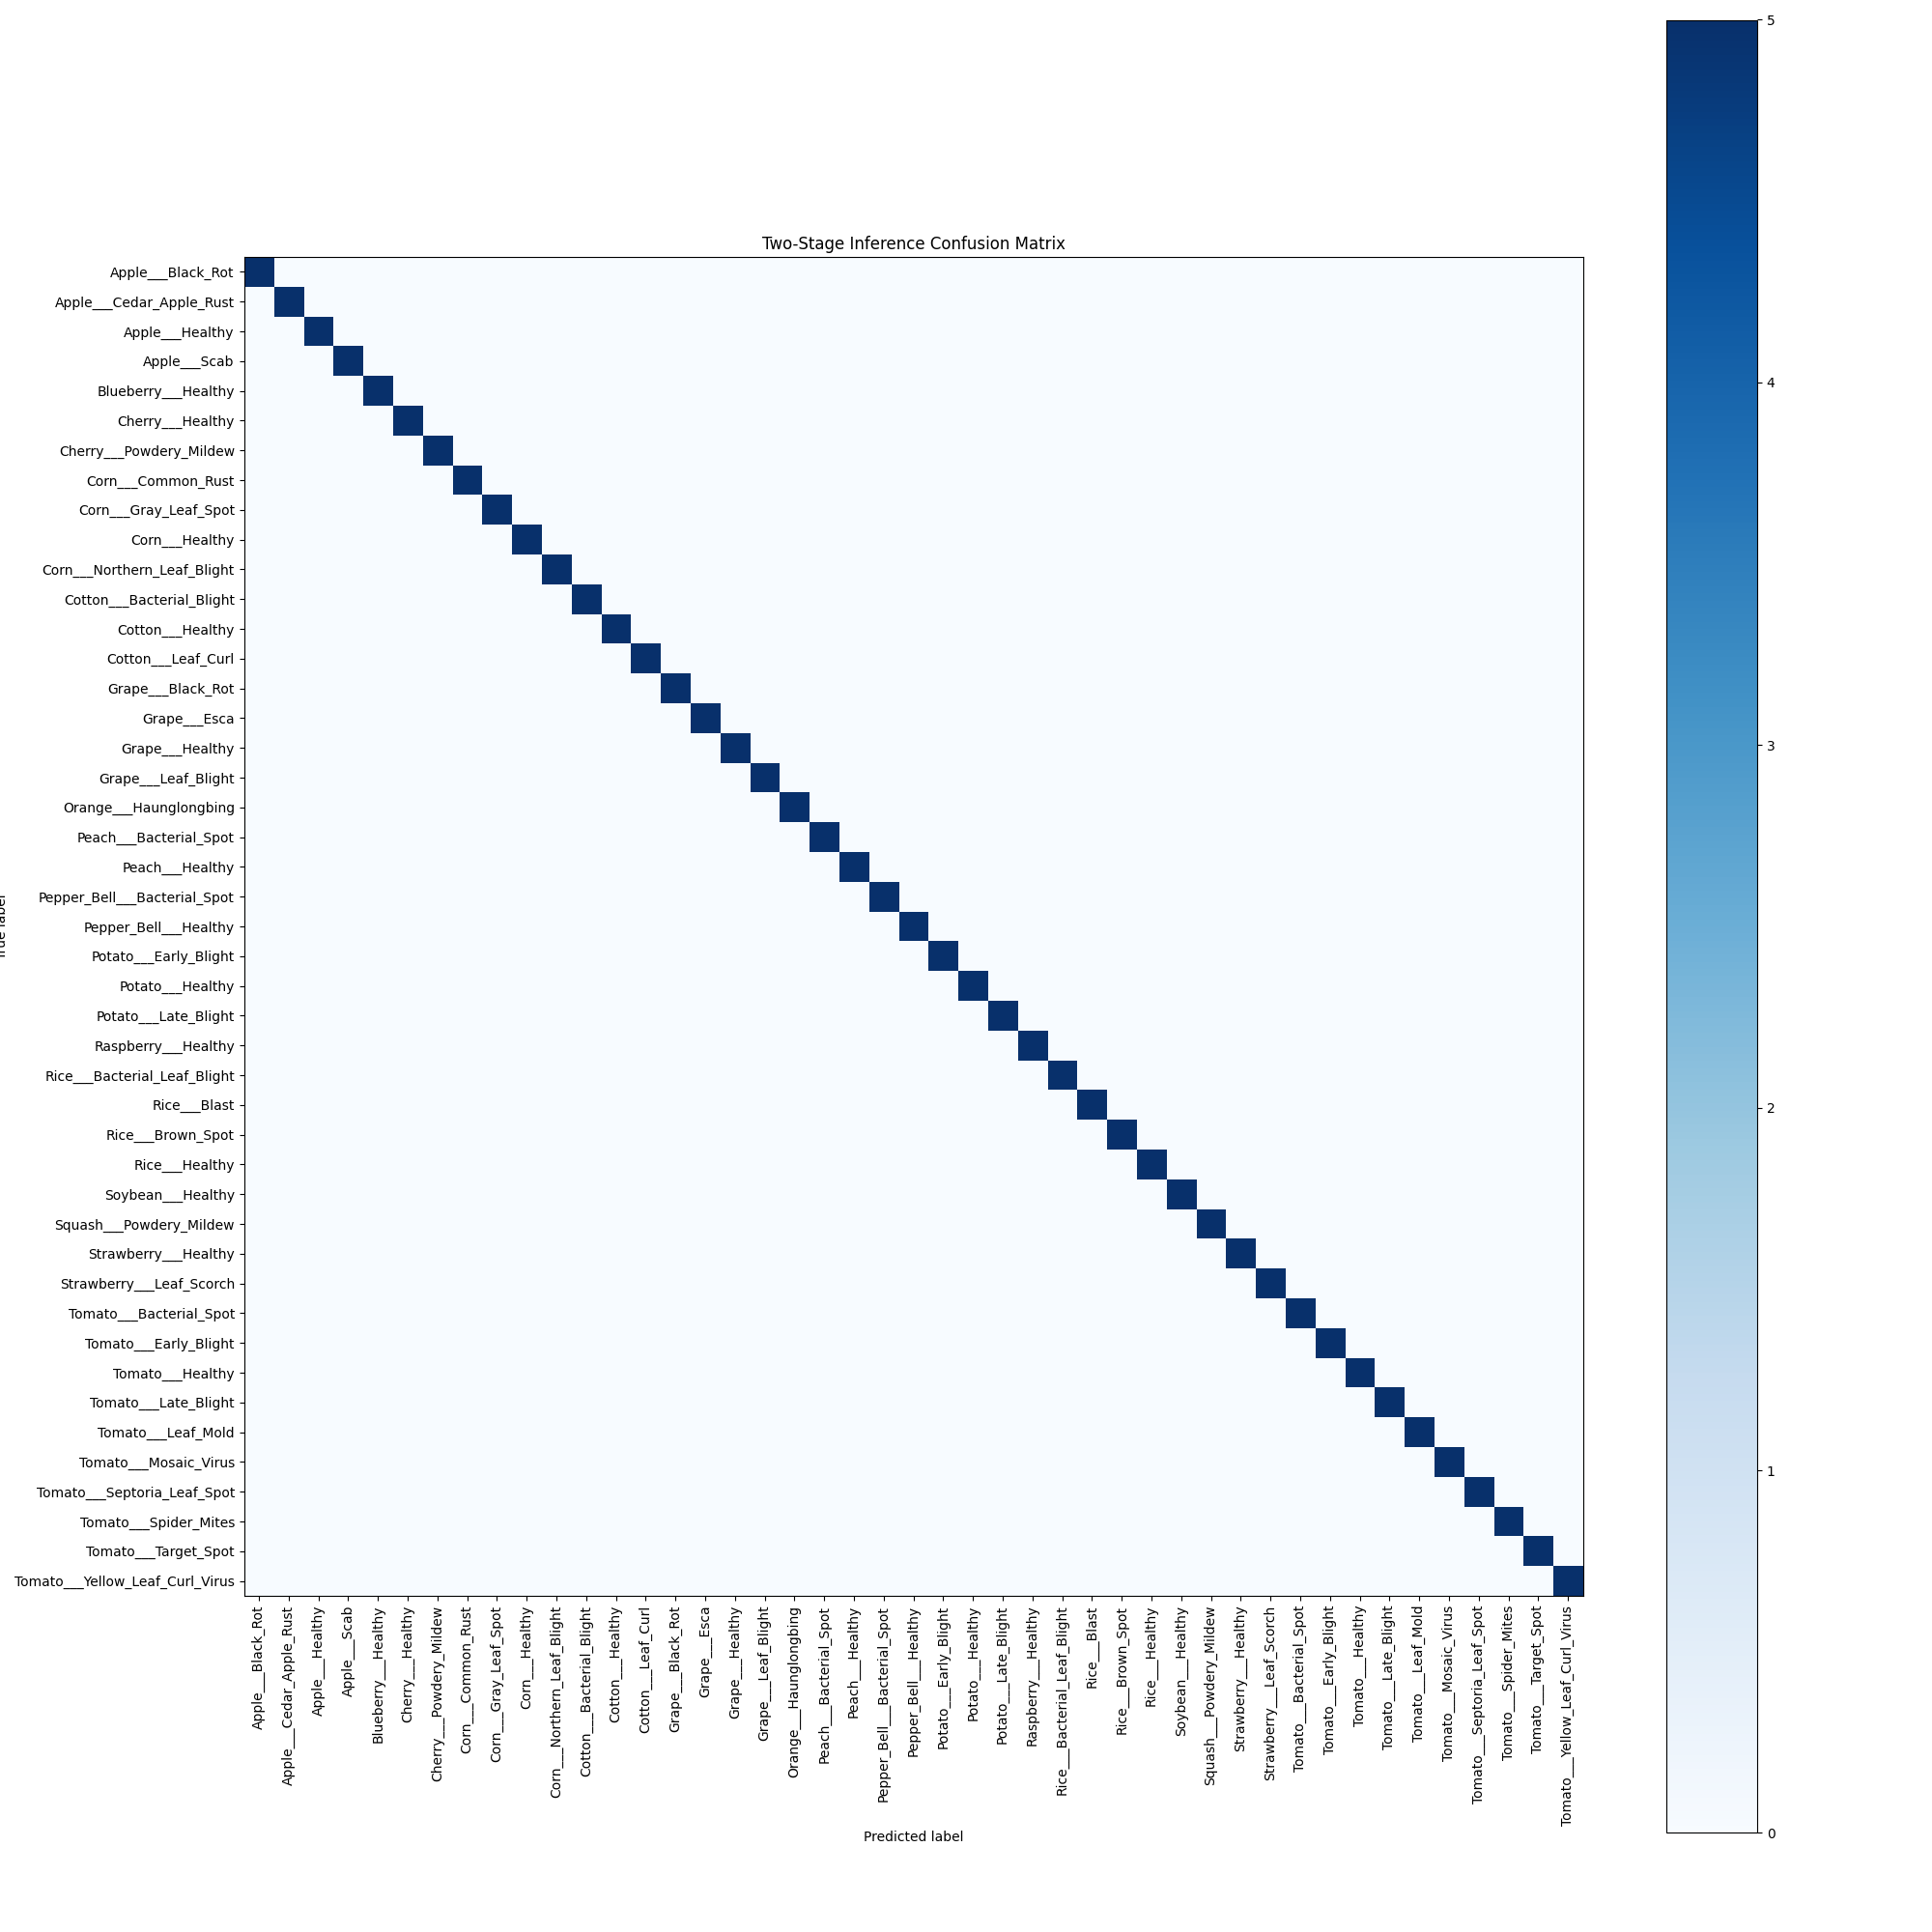
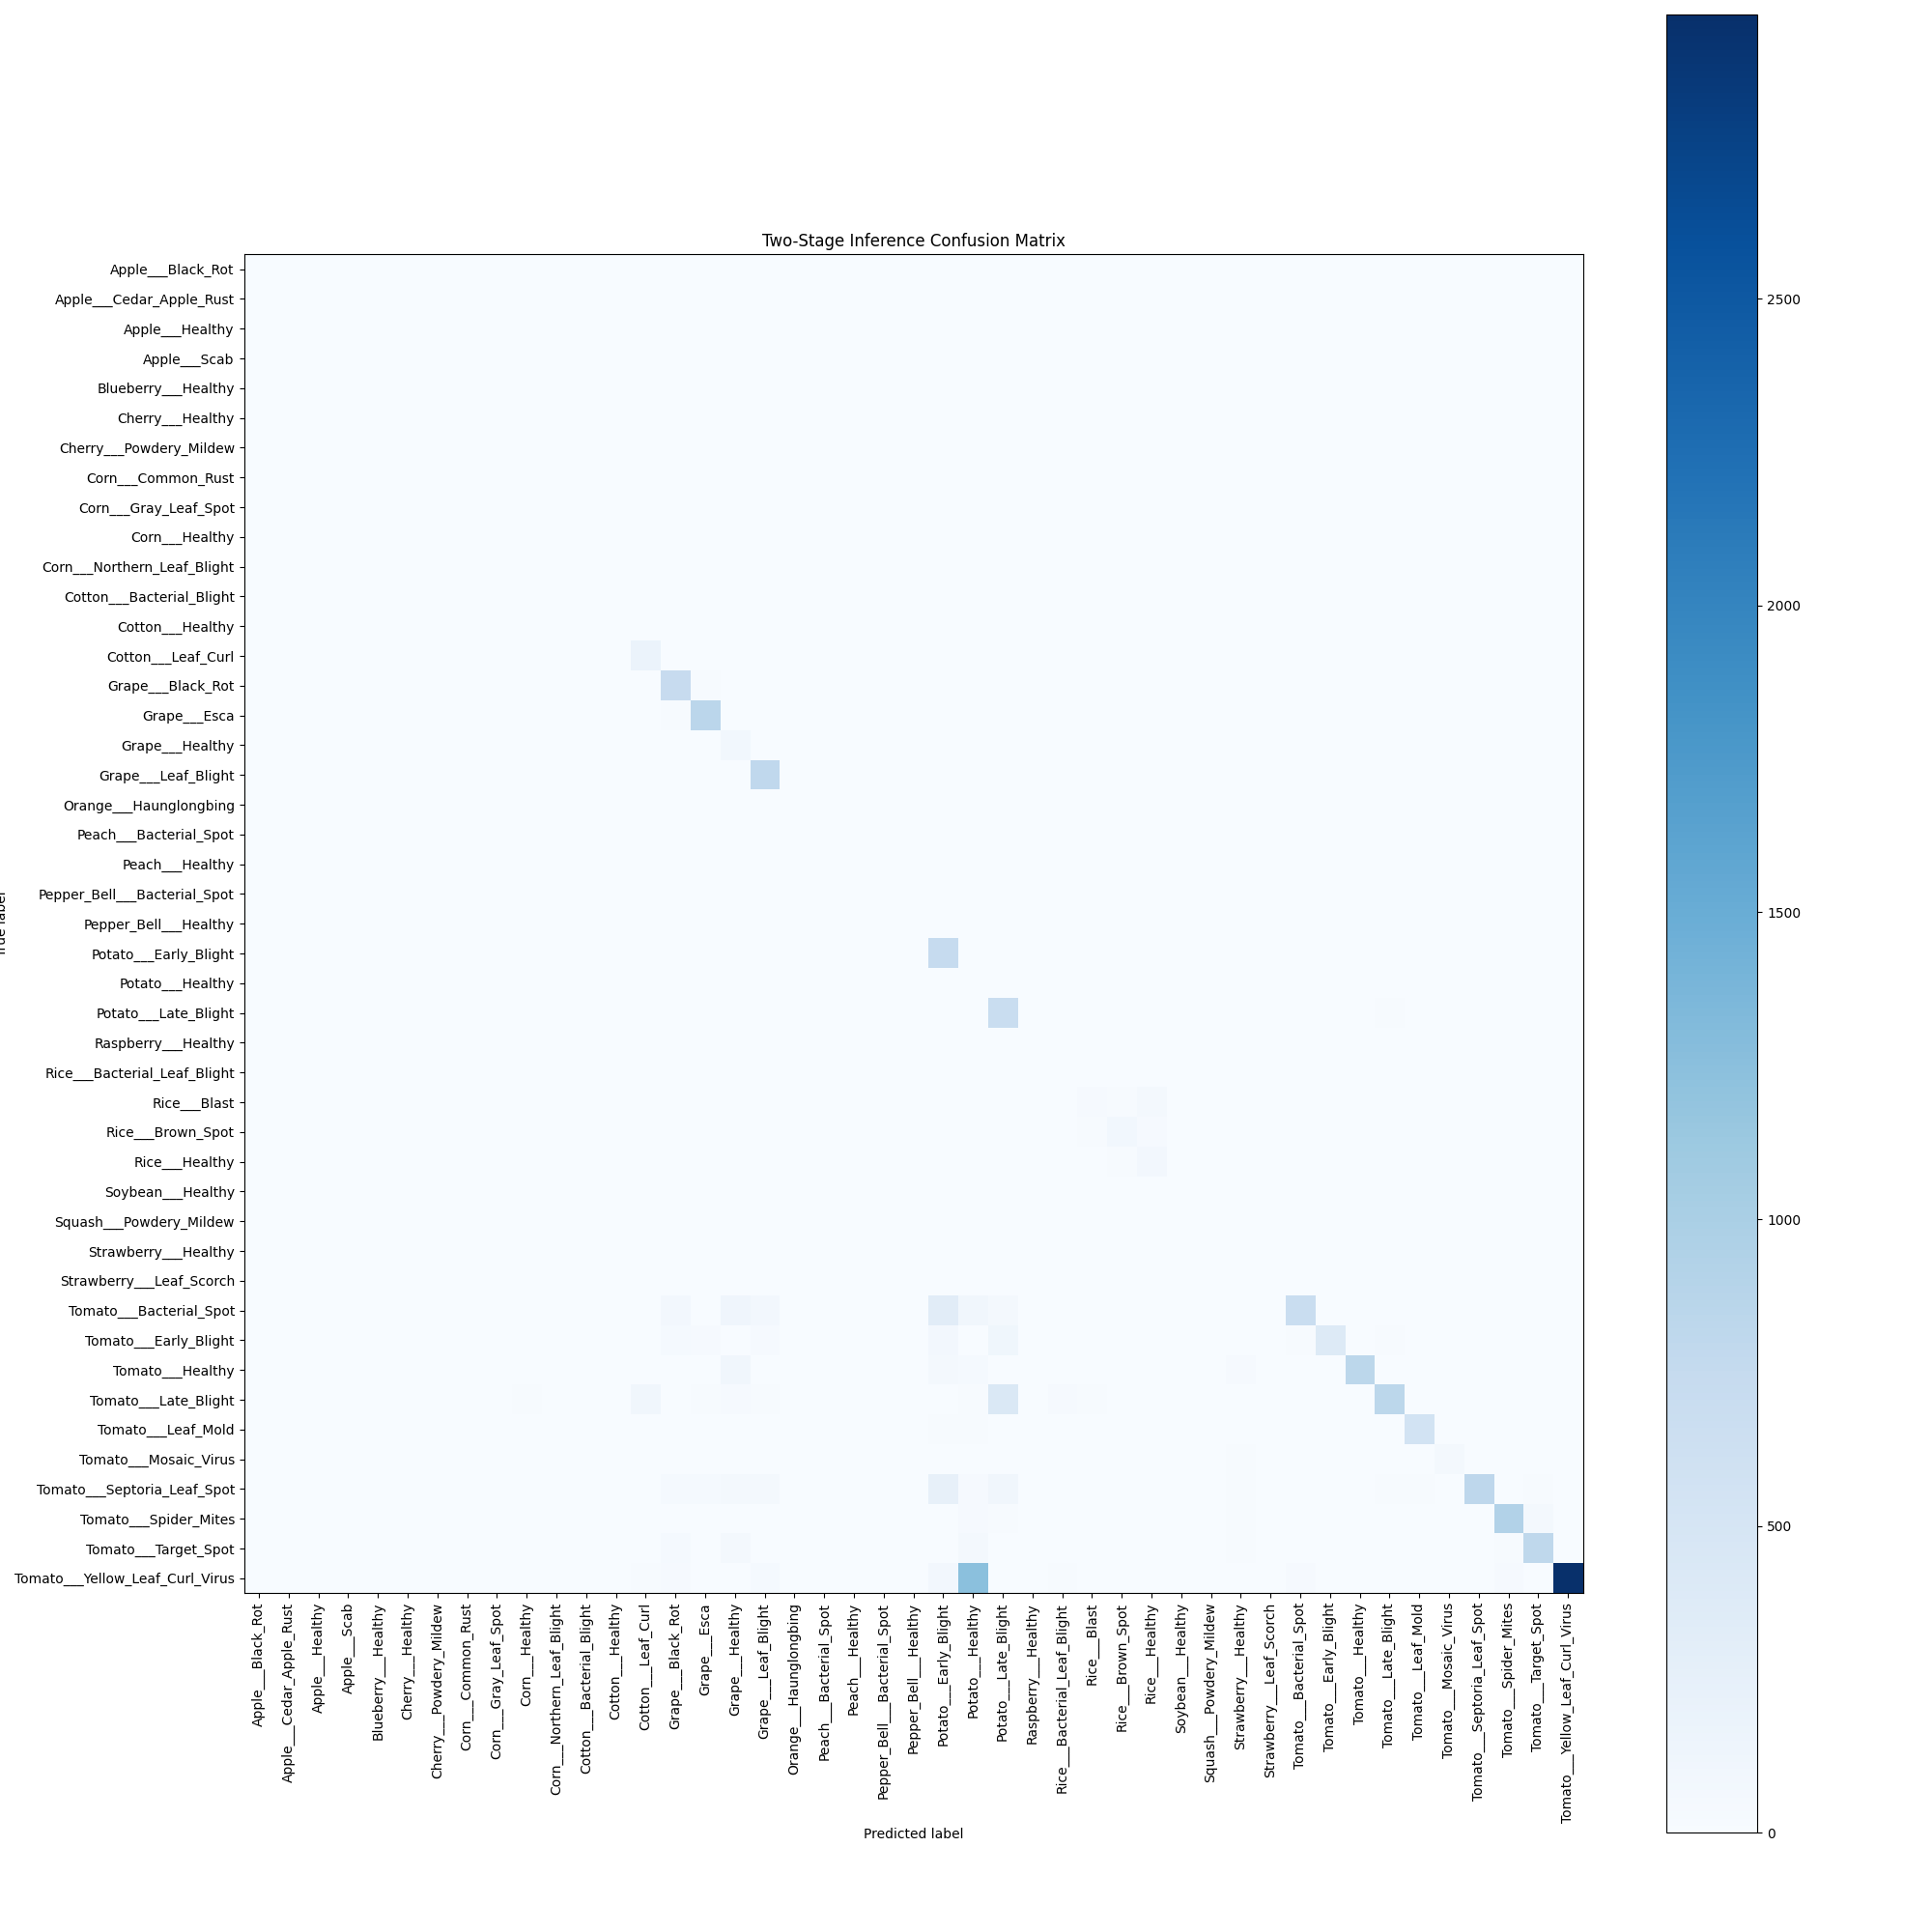
feat(disease): Disease Detection Production V2 - Deploy promoted ResNet18 classifier weights, confusion matrix charts, classification evaluations, and ad-hoc client headers

diff --git a/lib/features/disease_detection/presentation/screens/mock_js.dart b/lib/features/disease_detection/presentation/screens/mock_js.dart
@@ -1,0 +1,8 @@
+// Mock JS library to allow compiling dart:js calls on mobile platforms.
+class MockJsContext {
+  dynamic operator [](Object key) => null;
+  void operator []=(Object key, dynamic value) {}
+  dynamic callMethod(String method, [List? args]) => null;
+}
+
+final context = MockJsContext();

diff --git a/lib/features/disease_detection/presentation/screens/disease_result_screen.dart b/lib/features/disease_detection/presentation/screens/disease_result_screen.dart
@@ -1,6 +1,6 @@
 import 'dart:io';
 import 'dart:convert';
-import 'dart:js' as js;
+import 'mock_js.dart' if (dart.library.js) 'dart:js' as js;
 import 'package:flutter/foundation.dart' show kIsWeb;
 import 'package:flutter/material.dart';
 import 'package:kisan_mitra/core/localization/app_translations.dart';